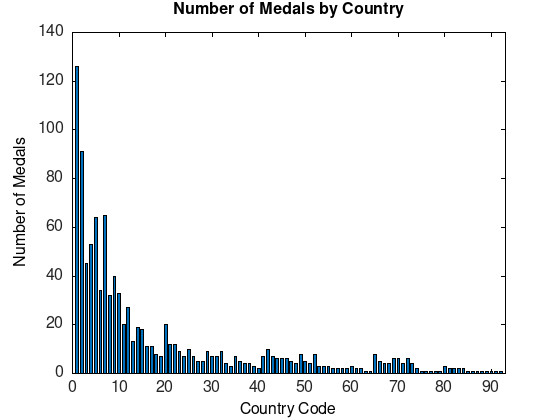
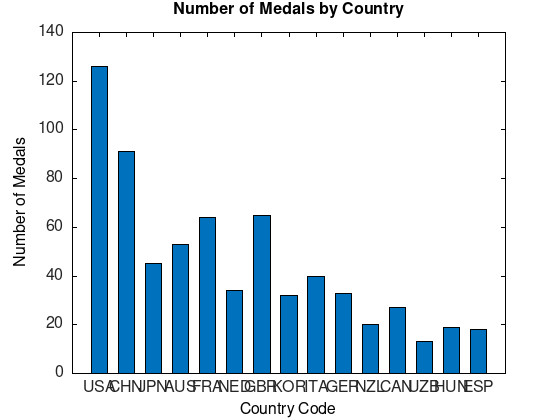
final final push

Changed region(s): [[0.1214, 0.1548, 0.9107, 0.9595]]

diff --git a/backend/src/Graphs.cpp b/backend/src/Graphs.cpp
@@ -8,6 +8,8 @@
 #include <matplot/axes_objects/bars.h>
 #include <stdexcept>
 #include <string>
+#include <unordered_map>
+#include <utility>
 
 using namespace std;
 using namespace matplot;
@@ -133,6 +135,7 @@ void Graph::totalNOofMedalsbyCountry(Database *d) {
 
   // Loop through the total_medals vector, convert each element to an integer
   // and push it to int_medals
+  int i = 0;
   for (const std::string &medal : *total_medals) {
     try {
       int_medals.push_back(stod(medal));
@@ -143,6 +146,10 @@ void Graph::totalNOofMedalsbyCountry(Database *d) {
       cerr << "Out of range error: '" << medal
            << "' is too large to be a double" << endl;
     }
+    i++;
+    if(i==15){
+      break;
+    }
   }
 
   auto b = bar(int_medals, 0.6);
@@ -152,11 +159,59 @@ void Graph::totalNOofMedalsbyCountry(Database *d) {
   xlabel("Country Code");
   title("Number of Medals by Country");
   ylabel("Number of Medals");
-  cout << countries->size() <<endl;
-  cout << int_medals.size() <<endl;
+  cout << countries->size() << endl;
+  cout << int_medals.size() << endl;
   gca()->x_axis().ticklabels(*countries);
 
-  string save_path = "/home/sujat/projects/CSE225-summer24-project/charts/countries_by_total_medals.jpg";
-  //save(save_path);
-  //show();
+  string save_path = "/home/sujat/projects/CSE225-summer24-project/charts/"
+                     "countries_by_total_medals.jpg";
+   save(save_path);
+}
+void Graph ::topMedalists(Database *d) {
+
+  cout << "entered functin" << endl;
+  vector<string> *medalists = new vector<string>();
+  d->getTable("medallists.csv")->returnColumn(3, medalists);
+  std::unordered_map<std::string, int> medalistCounts;
+
+  for (const std::string &medalist : *medalists) {
+    medalistCounts[medalist]++;
+  }
+
+  // Output the counts
+  // for (const auto &entry : medalistCounts) {
+  // std::cout << entry.first << ": " << entry.second << " medals" << std::endl;
+  //}
+  std::vector<std::pair<std::string, int>> sortedCounts(medalistCounts.begin(),
+                                                        medalistCounts.end());
+
+  std::sort(sortedCounts.begin(), sortedCounts.end(),
+            [](const auto &a, const auto &b) {
+              return a.second > b.second; // Sort by count in descending order
+            });
+
+  vector<int> nOmedals;
+  vector<string> athletes;
+  int i = 0;
+  // Output the sorted counts
+  for (const auto &entry : sortedCounts) {
+    std::cout << entry.first << ": " << entry.second << " medals" << std::endl;
+    athletes.push_back(entry.first);
+    nOmedals.push_back(entry.second);
+    i++;
+    if (i == 6) {
+      break;
+    }
+  }
+  auto b = bar(nOmedals, 0.4);
+  vector<string> count;
+
+  // Set x-axis tick labels using country codes
+  xlabel("Athletes");
+  title("Top Medalists");
+  ylabel("Number of Medals");
+  gca()->x_axis().ticklabels(athletes);
+  string save_path = "/home/sujat/projects/CSE225-summer24-project/charts/"
+                     "top_medalists.jpg";
+  save(save_path);
 }

diff --git a/gui/src/TableViewer.cpp b/gui/src/TableViewer.cpp
@@ -56,7 +56,7 @@ void TableViewer::setupTable(const QString &csvFileName, const std::string &data
         ++row;
     }
 
-    tableWidget->setEditTriggers(QAbstractItemView::NoEditTriggers);
+    tableWidget->setEditTriggers(QAbstractItemView::AllEditTriggers);
     tableWidget->setSelectionMode(QAbstractItemView::NoSelection);
     tableWidget->resizeColumnsToContents();
     tableWidget->resizeRowsToContents();

diff --git a/backend/include/Graphs.h b/backend/include/Graphs.h
@@ -15,6 +15,7 @@ public:
   void weightDistribution(Database *d);
   void genderDistribution(Database *d);
   void totalNOofMedalsbyCountry(Database *d);
+  void topMedalists(Database *d);
 };
 
 #endif // GRAPH_H

diff --git a/main.cpp b/main.cpp
@@ -17,6 +17,8 @@ int main(int argc, char *argv[]) {
   //
   Database *db = new Database();
   db->loadDatabase(dataFolder);
+  cout << "works" << endl;
+
   MenuHandler menu(db, dataFolder);
   menu.start();
 
